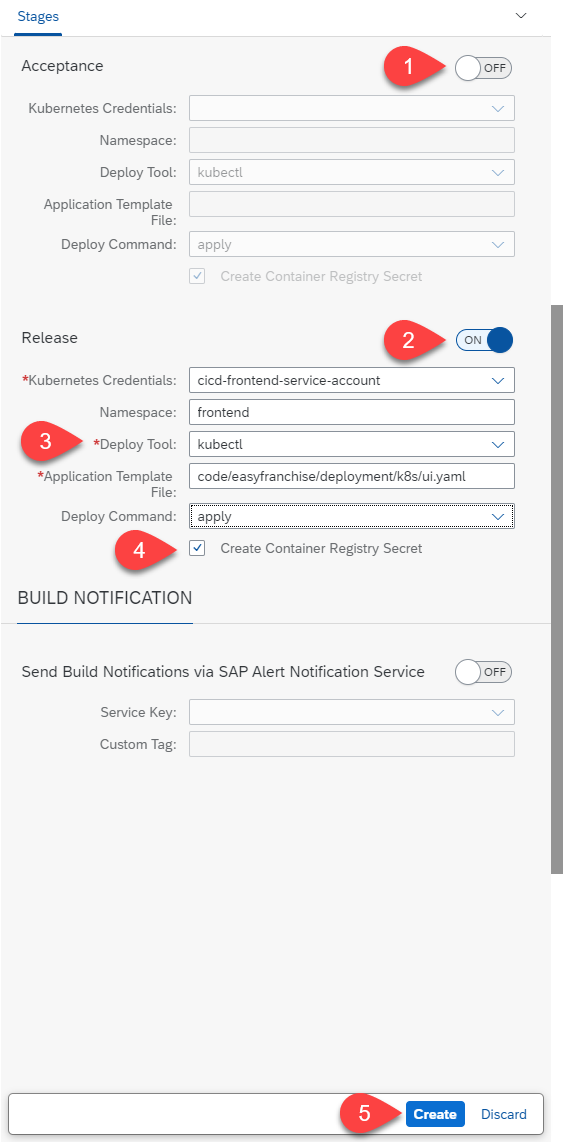
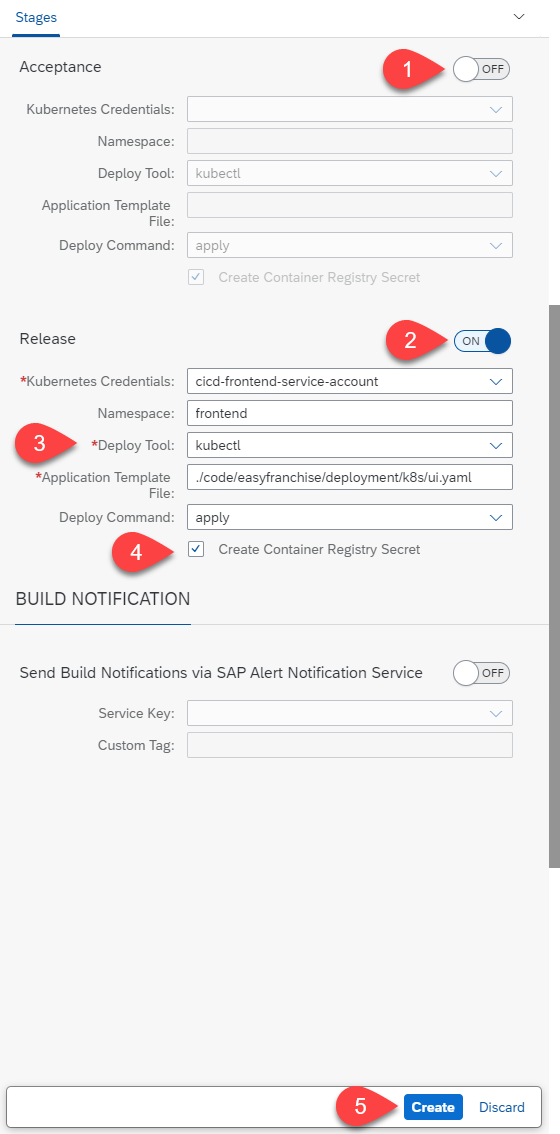
Fixed validation issues

diff --git a/code/easyfranchise/source/business-partner-mock-server/server.js b/code/easyfranchise/source/business-partner-mock-server/server.js
@@ -17,7 +17,7 @@ app.get('/sap/opu/odata/sap/API_BUSINESS_PARTNER/A_BusinessPartner', function (r
     });
  })
   
-var server = app.listen(8081, function () {
+ var server = app.listen(8081, 'localhost', function () {
    var host = server.address().address
    var port = server.address().port
    console.log("Business Partner Mock listening at http://%s:%s", host, port)

diff --git a/documentation/cicd/create-easyfranchise-ui-job/README.md b/documentation/cicd/create-easyfranchise-ui-job/README.md
@@ -93,7 +93,7 @@ Configure the **General Parameters**:
 Configure the **Build**:
 
 1. Check that **Build** is switched on.
-2. Enter the path to the dockerfile for the Easy Franchise UI: ```/code/easyfranchise/deployment/docker/Dockerfile-ui```
+2. Enter the path to the dockerfile for the Easy Franchise UI: ```./code/easyfranchise/deployment/docker/Dockerfile-ui```
 
    ![](./images/05-CICD-15a.png) 
 
@@ -104,7 +104,7 @@ Configure **Acceptance** and **Release**:
 3. Fill in the rest of the information:
    * Namespace: frontend
    * Deploy Tool: kubectl
-   * Application Template File: ```code/easyfranchise/deployment/k8s/ui.yaml```
+   * Application Template File: ```./code/easyfranchise/deployment/k8s/ui.yaml```
    * Deploy Command: apply
 
 4. Select **Create Container Registry Secret** checkbox. This will automatically create a secret in the cluster so that the image can be pulled from your repository.
